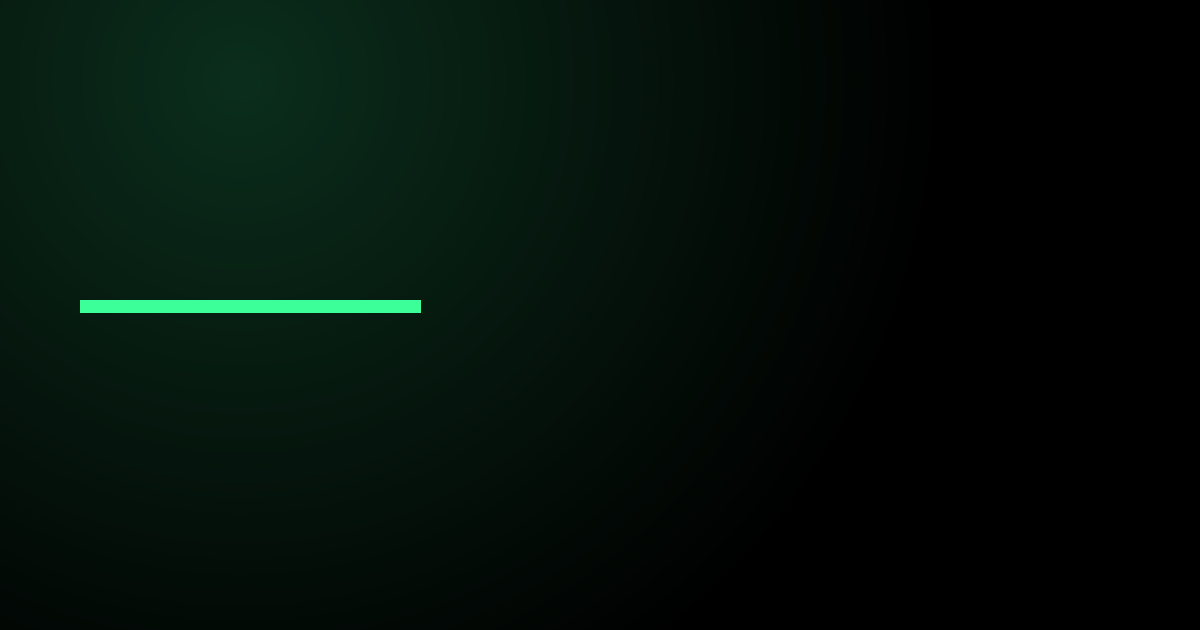
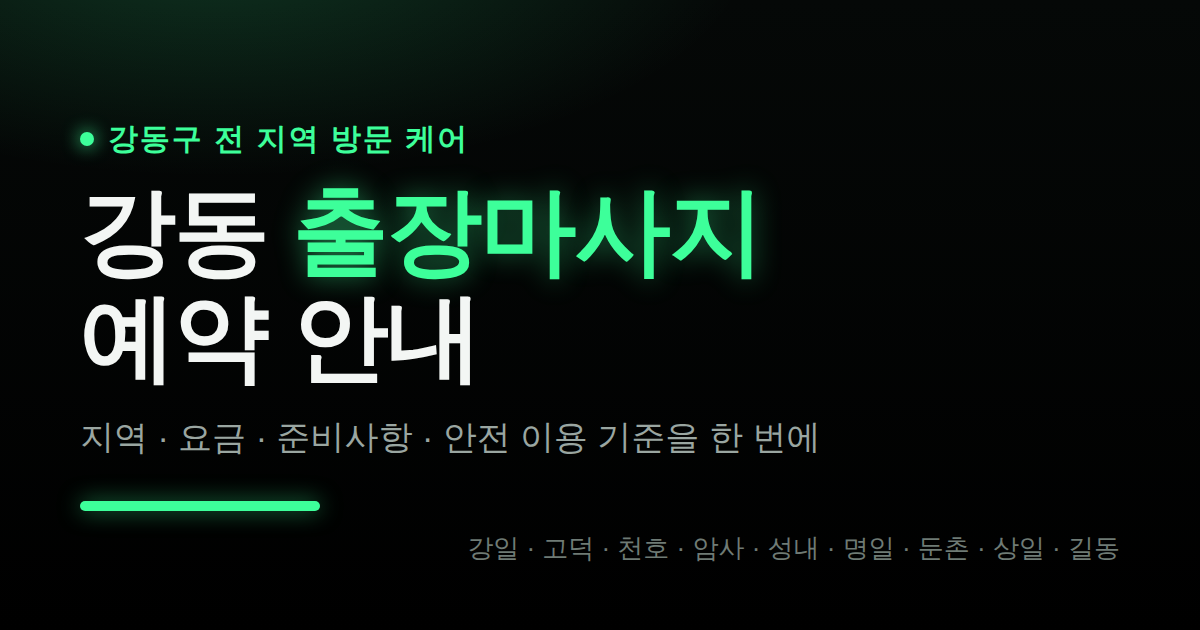
요금 3카드 디자인 + 실제 금액 반영 + 브랜드 OG 이미지
- 시안 기반 코스별 요금 3카드(PricingCards): 60분 90,000 / 90분 150,000(추천) / 120분 180,000
- 추천 카드 그린 강조 배지·하이라이트, 예약 문의 CTA, 다크+그린 테마로 구현
- 메인·요금 안내 가이드에 카드 적용, 지역·서비스 상세는 요금표(동일 금액) 유지
- 실제 운영 금액(시안)으로 lib/site.ts courses/pricing 업데이트
- 브랜드 OG 이미지(1200x630) 정식 제작(다크+그린, 브랜드 카피)

https://claude.ai/code/session_012NDwWfepy9GboP4cHGKE3U

diff --git a/app/page.tsx b/app/page.tsx
@@ -4,7 +4,8 @@ import JsonLd from "@/components/JsonLd";
 import Faq from "@/components/Faq";
 import EditorialMeta from "@/components/EditorialMeta";
 import AreaSelect from "@/components/AreaSelect";
-import { site, pricing, trustNotice } from "@/lib/site";
+import PricingCards from "@/components/PricingCards";
+import { site } from "@/lib/site";
 import { areas } from "@/lib/areas";
 import { services } from "@/lib/services";
 import { homeFaq } from "@/lib/faq";
@@ -147,35 +148,13 @@ export default function HomePage() {
       {/* 6. 요금 안내 */}
       <section className="section" style={{ background: "var(--surface-2)" }}>
         <div className="container">
-          <h2>강동 출장마사지 요금 안내</h2>
+          <h2>코스별 기본 요금</h2>
           <p className="page-lead">
-            모든 비용은 예약 확정 전에 투명하게 안내합니다. 예고 없는 추가요금은 발생하지 않습니다.
+            60·90·120분 코스별 기본 요금입니다. 숨겨진 추가 비용 없이 투명하게 안내합니다.
           </p>
-          <div className="table-wrap">
-            <table className="price-table">
-              <thead>
-                <tr>
-                  <th>구분</th>
-                  <th>시간</th>
-                  <th>요금</th>
-                  <th>비고</th>
-                </tr>
-              </thead>
-              <tbody>
-                {pricing.map((row) => (
-                  <tr key={row.name}>
-                    <td>{row.name}</td>
-                    <td>{row.time}</td>
-                    <td>{row.price}</td>
-                    <td>{row.note}</td>
-                  </tr>
-                ))}
-              </tbody>
-            </table>
-          </div>
+          <PricingCards />
           <p style={{ marginTop: 12, color: "var(--muted)", fontSize: "0.9rem" }}>
-            ※ 위 금액은 예시이며 실제 금액은 상담 시 확정됩니다. 취소·환불 기준은{" "}
-            <Link href="/guide/refund/">취소·환불 규정</Link>에서 확인하세요.
+            취소·환불 기준은 <Link href="/guide/refund/">취소·환불 규정</Link>에서 확인하세요.
           </p>
         </div>
       </section>

diff --git a/lib/site.ts b/lib/site.ts
@@ -29,7 +29,28 @@ export const site = {
   },
 } as const;
 
-// 요금표(예시). 실제 운영 금액으로 교체하세요. 0원 노출이 아니라 기준만 비워둔 형태.
+// 코스별 기본 요금(카드용). 실제 운영 금액으로 검토 후 사용하세요.
+export interface PriceCourse {
+  name: string; // 예: 60분 코스
+  time: string; // 예: 60분
+  price: string; // 숫자만 (예: 90,000) — 단위는 화면에서 "원" 표기
+  desc: string;
+  recommended?: boolean;
+}
+
+export const courses: PriceCourse[] = [
+  { name: "60분 코스", time: "60분", price: "90,000", desc: "기본 컨디션·릴랙스 케어" },
+  { name: "90분 코스", time: "90분", price: "150,000", desc: "아로마 포함 추천 구성", recommended: true },
+  { name: "120분 코스", time: "120분", price: "180,000", desc: "전신 집중 프리미엄 케어" },
+];
+
+// 추가 요금 안내(코스 외)
+export const priceNotes: string[] = [
+  "야간 추가요금: 시간대별 별도 안내",
+  "출장비: 방문 지역·거리에 따라 상담 시 안내",
+];
+
+// 표 형태가 필요한 페이지(지역·서비스 상세)용 요금표.
 export interface PriceRow {
   name: string;
   time: string;
@@ -38,9 +59,9 @@ export interface PriceRow {
 }
 
 export const pricing: PriceRow[] = [
-  { name: "기본 케어", time: "60분", price: "₩00,000", note: "가벼운 피로 관리" },
-  { name: "집중 케어", time: "90분", price: "₩00,000", note: "전신 이완 중심" },
-  { name: "프리미엄 케어", time: "120분", price: "₩00,000", note: "충분한 휴식" },
+  { name: "60분 코스", time: "60분", price: "90,000원", note: "기본 컨디션·릴랙스 케어" },
+  { name: "90분 코스", time: "90분", price: "150,000원", note: "아로마 포함 추천 구성" },
+  { name: "120분 코스", time: "120분", price: "180,000원", note: "전신 집중 프리미엄 케어" },
   { name: "야간 추가", time: "시간대별", price: "별도 안내", note: "예약 시 고지" },
   { name: "출장비", time: "지역별", price: "상담 시 안내", note: "거리에 따라 적용" },
 ];

diff --git a/app/globals.css b/app/globals.css
@@ -357,6 +357,88 @@ main {
   font-size: 0.92rem;
 }
 
+/* ---------- Pricing cards ---------- */
+.price-cards {
+  display: grid;
+  grid-template-columns: repeat(3, 1fr);
+  gap: 16px;
+  margin-top: 16px;
+  align-items: stretch;
+}
+.price-card {
+  position: relative;
+  border: 1px solid var(--line);
+  border-radius: 16px;
+  background: var(--surface);
+  padding: 28px 22px;
+  text-align: center;
+  display: flex;
+  flex-direction: column;
+  gap: 6px;
+}
+.price-card.is-recommended {
+  border-color: var(--green);
+  background: linear-gradient(180deg, var(--green-soft), var(--surface) 55%);
+  box-shadow: 0 0 0 1px var(--green-dim), 0 14px 36px rgba(0, 0, 0, 0.55);
+  transform: translateY(-6px);
+}
+.price-badge {
+  position: absolute;
+  top: -13px;
+  left: 50%;
+  transform: translateX(-50%);
+  background: var(--green);
+  color: #04130b;
+  font-weight: 800;
+  font-size: 0.8rem;
+  padding: 5px 16px;
+  border-radius: 999px;
+  box-shadow: 0 0 16px rgba(61, 255, 154, 0.4);
+}
+.price-card h3 {
+  margin: 6px 0 4px;
+  color: var(--fg);
+  font-size: 1.15rem;
+}
+.price-amount {
+  margin: 6px 0 0;
+  font-size: 2.1rem;
+  font-weight: 800;
+  color: var(--fg);
+  letter-spacing: -0.02em;
+}
+.is-recommended .price-amount {
+  color: var(--green);
+  text-shadow: 0 0 18px rgba(61, 255, 154, 0.35);
+}
+.price-amount .won {
+  font-size: 0.95rem;
+  font-weight: 600;
+  color: var(--muted);
+  margin-left: 4px;
+}
+.price-time {
+  margin: 0;
+  color: var(--green-dim);
+  font-weight: 600;
+  font-size: 0.9rem;
+}
+.price-desc {
+  margin: 4px 0 0;
+  color: var(--muted);
+  font-size: 0.92rem;
+  min-height: 1.4em;
+}
+.price-cta {
+  margin-top: 16px;
+  width: 100%;
+}
+.price-foot {
+  margin-top: 16px;
+  color: var(--muted);
+  font-size: 0.9rem;
+}
+
 /* ---------- Tables ---------- */
 .table-wrap {
   overflow-x: auto;
@@ -575,6 +657,14 @@ main {
   }
   .nav-item {
     width: 100%;
+  }
+}
+@media (max-width: 820px) {
+  .price-cards {
+    grid-template-columns: 1fr;
+  }
+  .price-card.is-recommended {
+    transform: none;
   }
 }
 @media (max-width: 560px) {

diff --git a/app/guide/[slug]/page.tsx b/app/guide/[slug]/page.tsx
@@ -6,8 +6,9 @@ import PageHeader from "@/components/PageHeader";
 import JsonLd from "@/components/JsonLd";
 import Faq from "@/components/Faq";
 import EditorialMeta from "@/components/EditorialMeta";
+import PricingCards from "@/components/PricingCards";
 import { guides, getGuide } from "@/lib/guides";
-import { trustNotice, pricing } from "@/lib/site";
+import { trustNotice } from "@/lib/site";
 import { breadcrumbSchema, faqSchema } from "@/lib/schema";
 
 export function generateStaticParams() {
@@ -55,31 +56,8 @@ export default function GuidePage({ params }: { params: { slug: string } }) {
           </div>
         ))}
 
-        {/* 요금 안내 가이드에는 실제 요금표를 함께 노출 */}
-        {g.slug === "pricing" ? (
-          <div className="table-wrap" style={{ marginTop: 8 }}>
-            <table className="price-table">
-              <thead>
-                <tr>
-                  <th>구분</th>
-                  <th>시간</th>
-                  <th>요금</th>
-                  <th>비고</th>
-                </tr>
-              </thead>
-              <tbody>
-                {pricing.map((row) => (
-                  <tr key={row.name}>
-                    <td>{row.name}</td>
-                    <td>{row.time}</td>
-                    <td>{row.price}</td>
-                    <td>{row.note}</td>
-                  </tr>
-                ))}
-              </tbody>
-            </table>
-          </div>
-        ) : null}
+        {/* 요금 안내 가이드에는 코스별 요금 카드를 함께 노출 */}
+        {g.slug === "pricing" ? <PricingCards /> : null}
 
         <div className="notice" style={{ margin: "24px 0" }}>
           {trustNotice}

diff --git a/components/PricingCards.tsx b/components/PricingCards.tsx
@@ -1,0 +1,29 @@
+import { courses, priceNotes, site } from "@/lib/site";
+
+// 코스별 기본 요금 3카드 (추천 카드 강조). 다크+그린 테마.
+export default function PricingCards() {
+  return (
+    <div>
+      <div className="price-cards">
+        {courses.map((c) => (
+          <div key={c.name} className={`price-card${c.recommended ? " is-recommended" : ""}`}>
+            {c.recommended ? <span className="price-badge">추천</span> : null}
+            <h3>{c.name}</h3>
+            <p className="price-amount">
+              {c.price}
+              <span className="won">원</span>
+            </p>
+            <p className="price-time">{c.time}</p>
+            <p className="price-desc">{c.desc}</p>
+            <a href={site.phoneHref} className={`btn ${c.recommended ? "btn-primary" : "btn-outline"} price-cta`}>
+              예약 문의
+            </a>
+          </div>
+        ))}
+      </div>
+      <p className="price-foot">
+        {priceNotes.join(" · ")} — 지역·예약 시간대·이동 거리에 따라 상담 시 최종 확정됩니다.
+      </p>
+    </div>
+  );
+}
